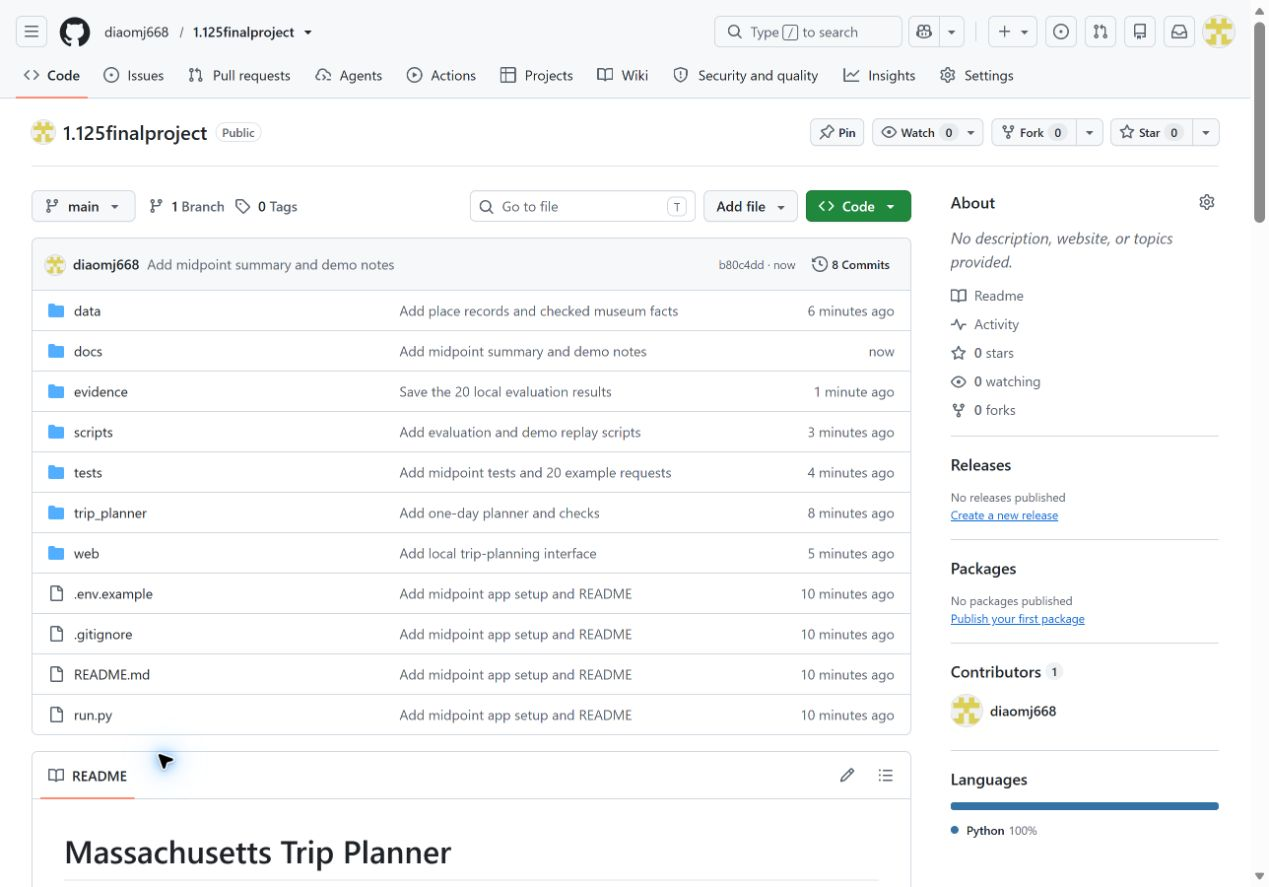
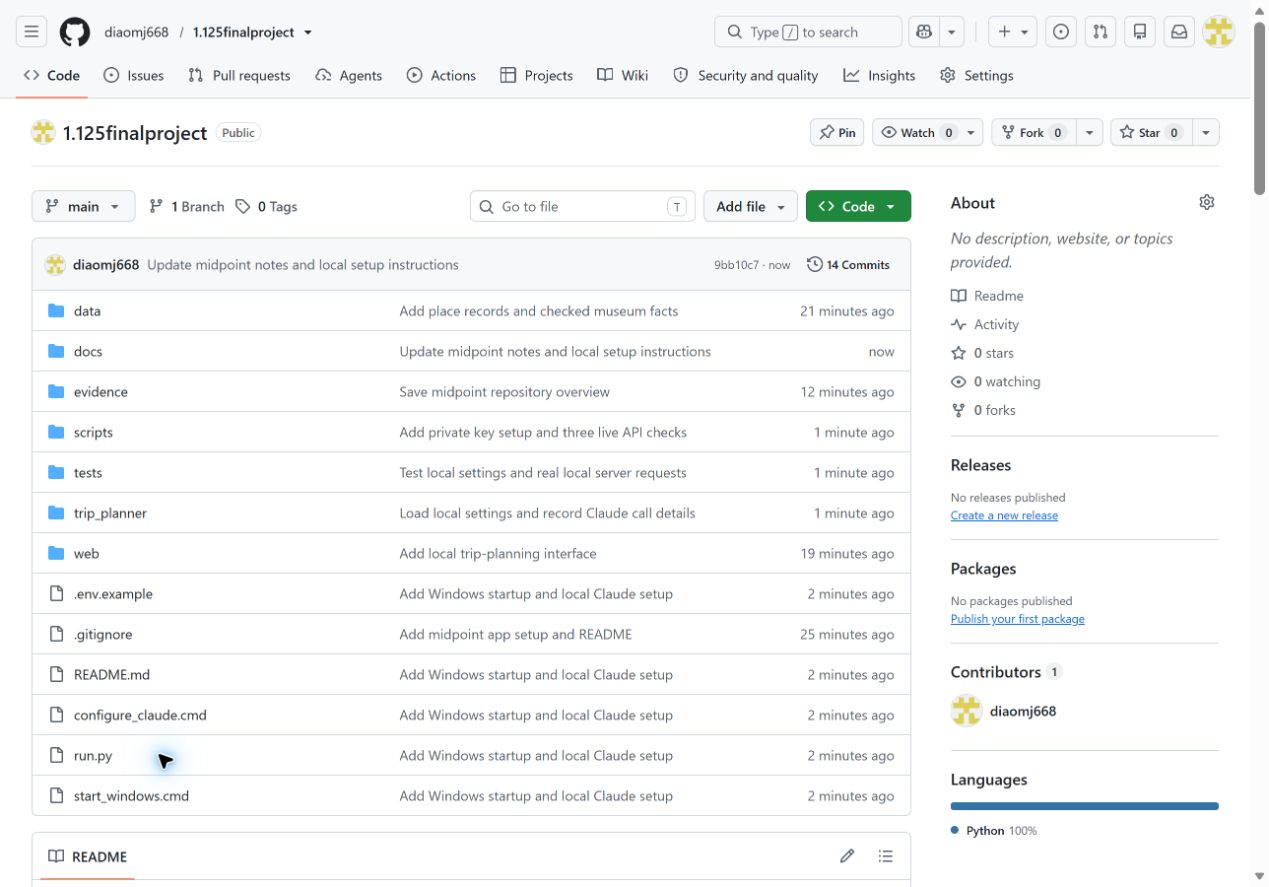
Update evidence notes after local setup checks

diff --git a/evidence/README.md b/evidence/README.md
@@ -5,3 +5,5 @@
 `scenario_plans.json` has the input, retrieved records, first draft, checks, revision and final result for each scenario.
 
 These files were produced by `python scripts/evaluate.py` on November 13, 2026. The run used the local planner and made no real Claude API calls. Rerunning the script replaces the evidence with a fresh run.
+
+`claude_live.json` is created only when `python scripts/verify_claude.py --run` is used with a configured key. Its contents distinguish a failed attempt from completed live cases. If the file is absent, no live API evidence has been saved.
